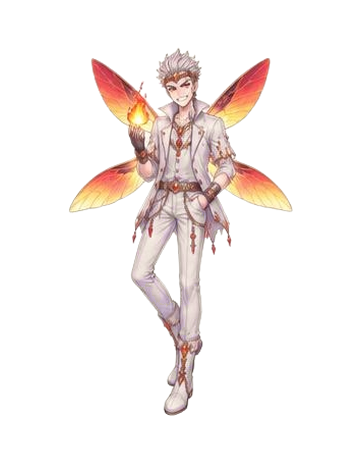
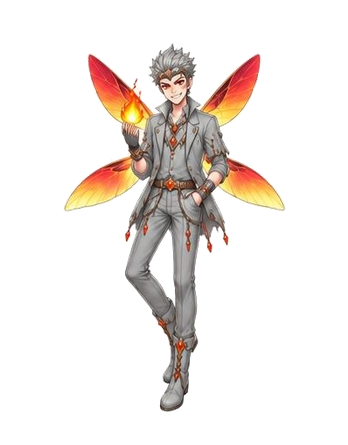
11180707

Changed region(s): [[0.1724, 0.0876, 0.8333, 0.9348]]

diff --git a/index.html b/index.html
@@ -1670,7 +1670,7 @@ function gReviver(k,v){return typeof v==='string'?(v.length===GLEN3+2&&v.startsW
 const packState=o=>JSON.stringify(o,gReplacer);
 const unpack=t=>JSON.parse(t,gReviver);
 // ===== 存檔檢查與修復 =====
-const BUILD='2026-11-18a';
+const BUILD='2026-11-18b';
 const isPair=p=>Array.isArray(p)&&p.length===2;
 function isGeno(g){
   if(!g||typeof g!=='object'||g.sv!==3)return false;
@@ -6547,8 +6547,8 @@ function fplotHTML(){const p=sheet.fplot,ph=phen(p.g,p.crop),lvl=p.stage==='seed
    圖：assets/fairy/fairy_<鍵>[_evo].png，頭髮、衣服、鞋子是灰色，照 26.2／85 用果實上色（fruitPrep／fruitPaint／光層），綠色部分（蒂頭遮罩）維持原色。
    存檔 state.fairy={<鍵>:{name,col,sb,no,evo,evoNo,at},follow:'<鍵>',mj:甜瓜吃醋旗標}。精靈之泉＝城鎮噴水池（TOWN_BLD 的 spring）。 */
 const FAIRY_BASE_READY=true;/* 110：基本型的圖到了 */
-const FY_RECOLOR=false;/* 110：新圖沒有可上色的灰色區，頭髮、衣服維持圖上的顏色；精靈之泉的「換色」暫停（喚醒時記下的 col 照存，開放上色時直接生效） */
-const FY_CV={w:360,h:456,fx:180,fy:412,body:360};/* 110：新圖的畫布（腳底 y=412、中心 x=180、身體高 360） *//* 95：精靈自己的全服名額拿掉，限量跟著標本走 */
+const FY_RECOLOR=true;/* 110（修訂）：新圖的頭髮、衣服、鞋子是中性灰，照 26.2 上色；設成 false 會改用原圖、精靈之泉的「換色」變灰 */
+const FY_CV={w:348,h:445,fx:174,fy:407,body:360};/* 110（修訂）：新圖的畫布 348×445（腳底 y=407、中心 x=174、身體高 360） *//* 95：精靈自己的全服名額拿掉，限量跟著標本走 */
 const FY_KEYS=['tomato','eggplant','chili','strawberry','corn','pumpkin','broccoli','zucchini','melon'];
 const FY={tomato:{g:'f',p:'開朗大姊頭'},eggplant:{g:'f',p:'文靜優雅'},chili:{g:'m',p:'熱血急性子'},strawberry:{g:'f',p:'甜美愛撒嬌'},corn:{g:'m',p:'愛幻想的小發明家'},pumpkin:{g:'m',p:'偷偷惡作劇'},broccoli:{g:'m',p:'外冷內熱'},zucchini:{g:'f',p:'酷酷的運動少女'},melon:{g:'f',p:'瘋狂愛爆炸'}};
 const FY_NAMES={
@@ -6668,7 +6668,7 @@ function fySpringHTML(){const t=isTestMode();
     const B=[];if(!has){if(nL)B.push(['wake','喚醒',1])}else{if(!f.evo&&nM)B.push(['evo','進化',1]);if(nL)B.push(['col',FY_RECOLOR?'換色':'換色（之後開放）',0])}
     const st=!has?(nL?`可用標本 ${nL} 個`:`需要${cr}的傳說以上標本`):(!f.evo?(nM?`神話標本 ${nM} 個`:`進化要${cr}的神話標本`):'已進化');
     h+=`<div class="fyrow"><span class="fyth">${has?fyArtHTML(k,f,72,false):fySil(k)}</span><div class="fyrc"><b>${fyN(k)}</b>${has?`<span class="meta">「${esc(f.name||'')}」${f.evo?'・已進化':''}</span>`:''}<span class="meta">${st}</span></div>
-      <div class="fyrb">${B.map(([a,n,pri])=>a==='col'&&!FY_RECOLOR?`<button class="btn" disabled aria-disabled="true">${n}</button>`:`<button class="btn${pri?' primary':''}" data-act="fyuse" data-a="${a}" data-k="${k}">${n}</button>`).join('')}${t&&!(has&&f.evo)?`<button class="btn small" data-act="fytest" data-a="${has?'evo':'wake'}" data-k="${k}">測試：直接${has?'進化':'喚醒'}</button>`:''}</div></div>`}
+      <div class="fyrb">${B.map(([a,n,pri])=>a==='col'&&!FY_RECOLOR?`<button class="btn" disabled aria-disabled="true">${n}</button>`:`<button class="btn${pri?' primary':''}" data-act="fyuse" data-a="${a}" data-k="${k}">${n}</button>`).join('')}${t&&!(has&&f.evo)?`<button class="btn small" data-act="fytest" data-a="${has?'evo':'wake'}" data-k="${k}">測試：直接${has?'進化':'喚醒'}</button>`:''}${t&&has?`<button class="btn small" data-act="fytest" data-a="col" data-k="${k}">測試：換色</button>`:''}</div></div>`}/* 110.3：用 FY_TESTCOL 的顏色檢查上色 */
   return h+`<button class="btn" data-act="fygrid">看我的精靈</button>`}
 function fyOneHTML(k){const f=fyMine()[k];if(!fyHas(k))return `<p class="note">還沒有${fyN(k)}。</p>`;const F=fyMine(),fol=F.follow===k,no=fyNoTxt(f);
   return `<h2>${esc(f.name||fyN(k))}</h2><div class="fybig">${fyArtHTML(k,f,240,true)}</div><p class="note" style="text-align:center">${fyN(k)}${f.evo?'・已進化':''}${no?`<br>${no}`:''}</p>
@@ -7030,7 +7030,7 @@ const W3D_HOST={
       {const Rn=rdHere();if(Rn){const x=Math.round(Rn.x),y=Math.round(Rn.y);L.push({key:'rnpc',kind:'rnpc',x,y,tk:'rnpc|'+exBiome+'|'+(rdSay&&rdSay.t||''),svg:riddleSVG(Rn),vb:`${x-120} ${y-176} 240 180`,pw:360,ph:270,vh:180})}}/* 對話泡泡也畫在同一張圖裡 */
       w3dSetPlants(L)}
     {const L=[];const add=(id,f,x,y,flip)=>{if(!f)return;const H=FY_FH,svg=fyArt(f.k,f,H,0);if(!svg)return;const tk='fy|'+f.k+'|'+f.col+'|'+(f.sb||'')+'|'+f.evo+'|'+FRUIT_VER;const T=fyTalk&&fyTalk.who===id&&Date.now()<fyTalk.until?{name:fyTalk.name,text:fyTalk.text}:null;
-      const k3=H/FY_CV.body;L.push({id,key:tk,svg,vb:`${f3(-FY_CV.fx*k3)} ${f3(H/2-FY_CV.fy*k3)} ${f3(FY_CV.w*k3)} ${f3(FY_CV.h*k3)}`,pw:180,ph:228,vh:FY_CV.h*k3*1.36,x,y,flip,talk:T,glow:null})};/* 110：整張畫布；光環、特效在圖上 */
+      const k3=H/FY_CV.body;L.push({id,key:tk,svg,vb:`${f3(-FY_CV.fx*k3)} ${f3(H/2-FY_CV.fy*k3)} ${f3(FY_CV.w*k3)} ${f3(FY_CV.h*k3)}`,pw:180,ph:230,vh:FY_CV.h*k3*1.36,x,y,flip,talk:T,glow:null})};/* 110：整張畫布；光環、特效在圖上 */
       add('me',fyMe(),m.x,m.y,faceFlip(meFace));for(const [id,o] of Object.entries(others)){if(!o||typeof o.x!=='number')continue;const A=animO[id]||o;add(id,fyUnpack(o.fy),A.x,A.y,faceFlip(o.f!=null?o.f:(o.d<0?3:1)))}
       w3dSetFairies(L)}},
   /* 點到植株、道具：和 SVG 畫面點到時一樣（近就打開、遠就先走過去）；點到地面就走過去 */

diff --git a/docs/規格存檔.md b/docs/規格存檔.md
@@ -1282,6 +1282,14 @@
 - 圖用到才載入（`fyBase`，照舊），沒有轉成 256 色。
 - 測試 `vm110.js`（全部通過）：基本型、進化型檔名；新畫布的身體高 38.00、整張 48.13、腳底在原點下方 19（＝原本身體範圍的底）、中心 x＝0；精靈頁沒有程式畫的光環、viewBox 比例 360:456；有精靈和傳說標本時換色按鈕是灰的、沒有 `data-a="col"`。vm95、vm975、vm4、vm108 通過。沒做：截圖（照 0.3 工作規則）；沒在瀏覽器看 9 隻並排、沒測 iPhone。
 
+### 9.108 花精靈新圖修訂：348×445、恢復上色（18b，第 110 節修訂版）
+
+- 使用者換了一版素材與規格（規格存檔最後面「110（修訂版）」）：18 張圖都是 348×445，腳底 y=407、中心 x=174、身體高 360；頭髮、衣服、鞋子改成中性灰，可以照 26.2 上色。
+- `FY_CV={w:348,h:445,fx:174,fy:407,body:360}`（`fyArt`、`fyArtHTML`、3D 精靈都照它算，整張圖高 FY_FH×445/360 ≈ 47）。
+- `FY_RECOLOR=true`：恢復 `fruitURL` 上色與夢幻色光層，精靈之泉的「換色」照 93／95 的流程（用掉標本）。開關還在，設回 false 就是 18a 的樣子（原圖、換色變灰）。
+- 110.3 的檢查：測試模式的精靈之泉多一顆「測試：換色」（`fytest col`，從 `FY_TESTCOL` 隨機挑顏色，不用標本）。
+- 測試 `vm110.js`（全部通過）：身體高 38.00、整張 46.98、腳底在原點下方 19、中心 x≈0；viewBox 比例 348:445；用上色後的圖；有傳說標本時換色按鈕可以按。vm95、vm975、vm108 通過。沒做：截圖（0.3 工作規則）；沒在瀏覽器看顏色是不是整塊變色、沒測 iPhone。
+
 ### 9.9 其他既有系統
 
 播種模式（`openSow`、`sowOne`、`sowUndo`、`renderSowBar`）、種原庫與壓縮（`zipLot` 等，存檔時自動壓縮）、種原庫查詢、批次丟棄、存檔大小報告（超過 900 KB 提醒）、種子袋滿時新種子自動放進種原庫「暫存櫃」（`ensureSlots`）、每日訂單與每週挑戰（`state.daily`、`state.weekly`、`deliverables(p,ph)`）、市集攤位交易、紀錄榜、跑馬燈。
@@ -1307,6 +1315,7 @@
 | `14o` | 果實素模上色（9.16，26.7 第 1 步）：`fruitInner` 改用 `assets/fruits/` 素模＋canvas 上色（花紋、特殊色效果、結果期偏綠），快取 300 筆；結果期果實 70% 大小、辣椒／玉米 b2 ×0.7；植株照舊；對照頁 `tools/fruit_compare.html` |
 | `14p` | 地區地圖通用化（9.17，27.7 第 1 步）：雪原程式改成 `REGION_MAPS`／`REGION_CFG` 與 `reg*` 函式共用，雪原完全不變（vm 比對）；新增河流 `rivers`；其他 4 區仍是無限方塊 |
 | `14q` | 草原地圖（9.18，27.7 第 2 步）：入口、野花坡、小河邊（河＋橋）、山丘（懸崖＋石階）、古井遺跡 5 張固定小地圖，取代草原的無限方塊；總覽頁 `tools/region_grass.html`；素模果實大小改成框的 0.82 |
+| `18b` | 第 110 節修訂版（9.108）：精靈圖改成 348×445 畫布、恢復上色與換色、測試模式「測試：換色」 |
 | `18a` | 第 110 節（9.107）：花精靈新圖（基本型＋進化型，360×456 畫布對齊）、拿掉程式畫的光環、暫停換色（FY_RECOLOR） |
 | `17z` | 第 109 節（9.106）：夢幻色光改成加亮立牌、貼圖預乘透明度、換地圖不閃 2D、樹減量與透視挖空、角色影格先畫好、3D 精靈 |
 | `17y` | 第 108 節（9.105）：草原其他 4 張改成 3D（高台＋草地緩坡、河與池、木橋、古井、石拱門、蘑菇圈） |
@@ -5565,3 +5574,35 @@ function terrace(o){const {W,E,H,gap,art,aw,ah,stairs,sw,sh,hi,lip,rock,rockD,sh
 - 跟隨時身體大小和舊版差不多，左右鏡像正常。
 - 進化型只有圖上的一層光環。
 - 換色按鈕在 `FY_RECOLOR=false` 時不會消耗標本。
+
+> 以下是 2026-11-18 使用者給的第 110 節修訂版（取代上面那一版的 110.1 畫布尺寸與 110.2 第 5 點）。
+
+## 110. 花精靈新圖上線（2026-11-18 使用者確定；修改第 93.4、93.6 節）
+
+狀態：素材已放進 `assets/fairy/`，待實作。
+
+### 110.1 素材
+- 18 張：`fairy_<鍵>.png`（基本型，新增）＋`fairy_<鍵>_evo.png`（進化型，覆蓋舊檔）。
+- **全部同一個畫布：348×445 px**。所有角色同一比例：
+  - 身體（頭頂到腳底）約 360 px。
+  - 腳底在 y=407，身體中心在 x=174。
+  - 翅膀、特效、光環都在畫布裡。
+  - 南瓜基本型是盤腿坐姿，所以比較矮，這是正常的。
+- 進化型的圖本身已經畫了光環和特效。
+- 頭髮、衣服、鞋子是中性灰，照 26.2 規則（RGB 最大最小差 < 18、亮度 > 72）上色；眼白、牙齒、白色小光點已微調成帶暖色，不會被上色。
+
+### 110.2 程式要改的
+1. `FAIRY_BASE_READY=true`。
+2. **尺寸**：舊圖幾乎整張都是身體，新圖的身體只佔畫布高度的 360/445。
+   - 跟隨時要讓「身體」維持原本的大小（約玩家 70%）：整張圖的繪製高度改成 `FY_FH×445/360`（約 47）。
+   - 對齊方式改成腳底 y=407、中心 x=174，讓精靈還是飄在原本的位置。
+3. **精靈頁、喚醒、進化畫面**（`fyArtHTML`）：viewBox 改成符合 348:445 的寬高比，不能裁掉翅膀。
+4. **拿掉程式畫的光環和光暈**（`fyEvoBack`、`fyEvoFront`），因為圖上已經有了，避免畫兩層。跟隨時飛過留下的光點（`fysp`）保留。
+5. **上色照舊**：喚醒時的果實顏色、換色都照 93／95 的流程，不用改。
+6. 每張圖約 85–200 KB，照 93.6 用到才載入，不要轉成 256 色。
+
+### 110.3 驗收
+- 9 隻的基本型和進化型都在精靈頁並排顯示。翅膀沒有被裁掉，大小一致，腳底對齊。
+- 跟隨時身體大小和舊版差不多，左右鏡像正常。
+- 進化型只有圖上的一層光環。
+- 用測試模式的幾種顏色（`FY_TESTCOL`）換色，確認頭髮、衣服、鞋子整塊變色，皮膚、眼白、翅膀、特效不變。

diff --git a/CLAUDE.md b/CLAUDE.md
@@ -1,8 +1,8 @@
 # 《種子的世界》專案說明（CLAUDE.md）
 
-> 程式：`index.html`（`BUILD = '2026-11-18a'`）。**程式碼才是唯一的事實來源**，和文件衝突時以程式為準。
+> 程式：`index.html`（`BUILD = '2026-11-18b'`）。**程式碼才是唯一的事實來源**，和文件衝突時以程式為準。
 > 2026-11-18 起 CLAUDE.md 只放接手需要的東西。已完成各節的原文、第 9 節（各系統的實作紀錄）、第 10 節（版本歷程）、第 17 節都在 `docs/規格存檔.md`；還沒做或還沒定案的節，每節一個檔案在 `docs/待實作/`。哪一節在哪裡看最下面的「節號索引表」。
-> 下一版 BUILD 是 `2026-11-18b`。目前進行中：第 108 節（3D 畫面），草原 5 張已做（17x、17y），第 109 節的修正已做（17z），都還沒在 iPhone 實測；接下來是第 108.0 的第 2 階段（其他地區，每區一節）。
+> 下一版 BUILD 是 `2026-11-18c`。目前進行中：第 108 節（3D 畫面），草原 5 張已做（17x、17y），第 109 節的修正已做（17z），都還沒在 iPhone 實測；接下來是第 108.0 的第 2 階段（其他地區，每區一節）。
 
 ---
 
@@ -341,4 +341,4 @@ const A=hom(T.makeWild('tomato','grass',false)),B=hom(T.makeWild('tomato','fores
 | 107 | （沒有這一節） | — | — |
 | 108 | 立體化改版 | 未做 | docs/待實作/第108節.md；草原 5 張已做（17x、17y，見規格存檔 9.104、9.105）；其他地區、農場、城鎮還沒做 |
 | 109 | 3D 草原試玩回報修正 | 已完成 | docs/規格存檔.md；17z（9.106）；黑塊、頭閃的原因是推測，等 iPhone 確認 |
-| 110 | 花精靈新圖上線 | 已完成 | docs/規格存檔.md；18a（9.107）；換色暫停（`FY_RECOLOR=false`） |
+| 110 | 花精靈新圖上線 | 已完成 | docs/規格存檔.md；18a（9.107）、修訂版 18b（9.108：348×445 畫布、恢復上色） |
